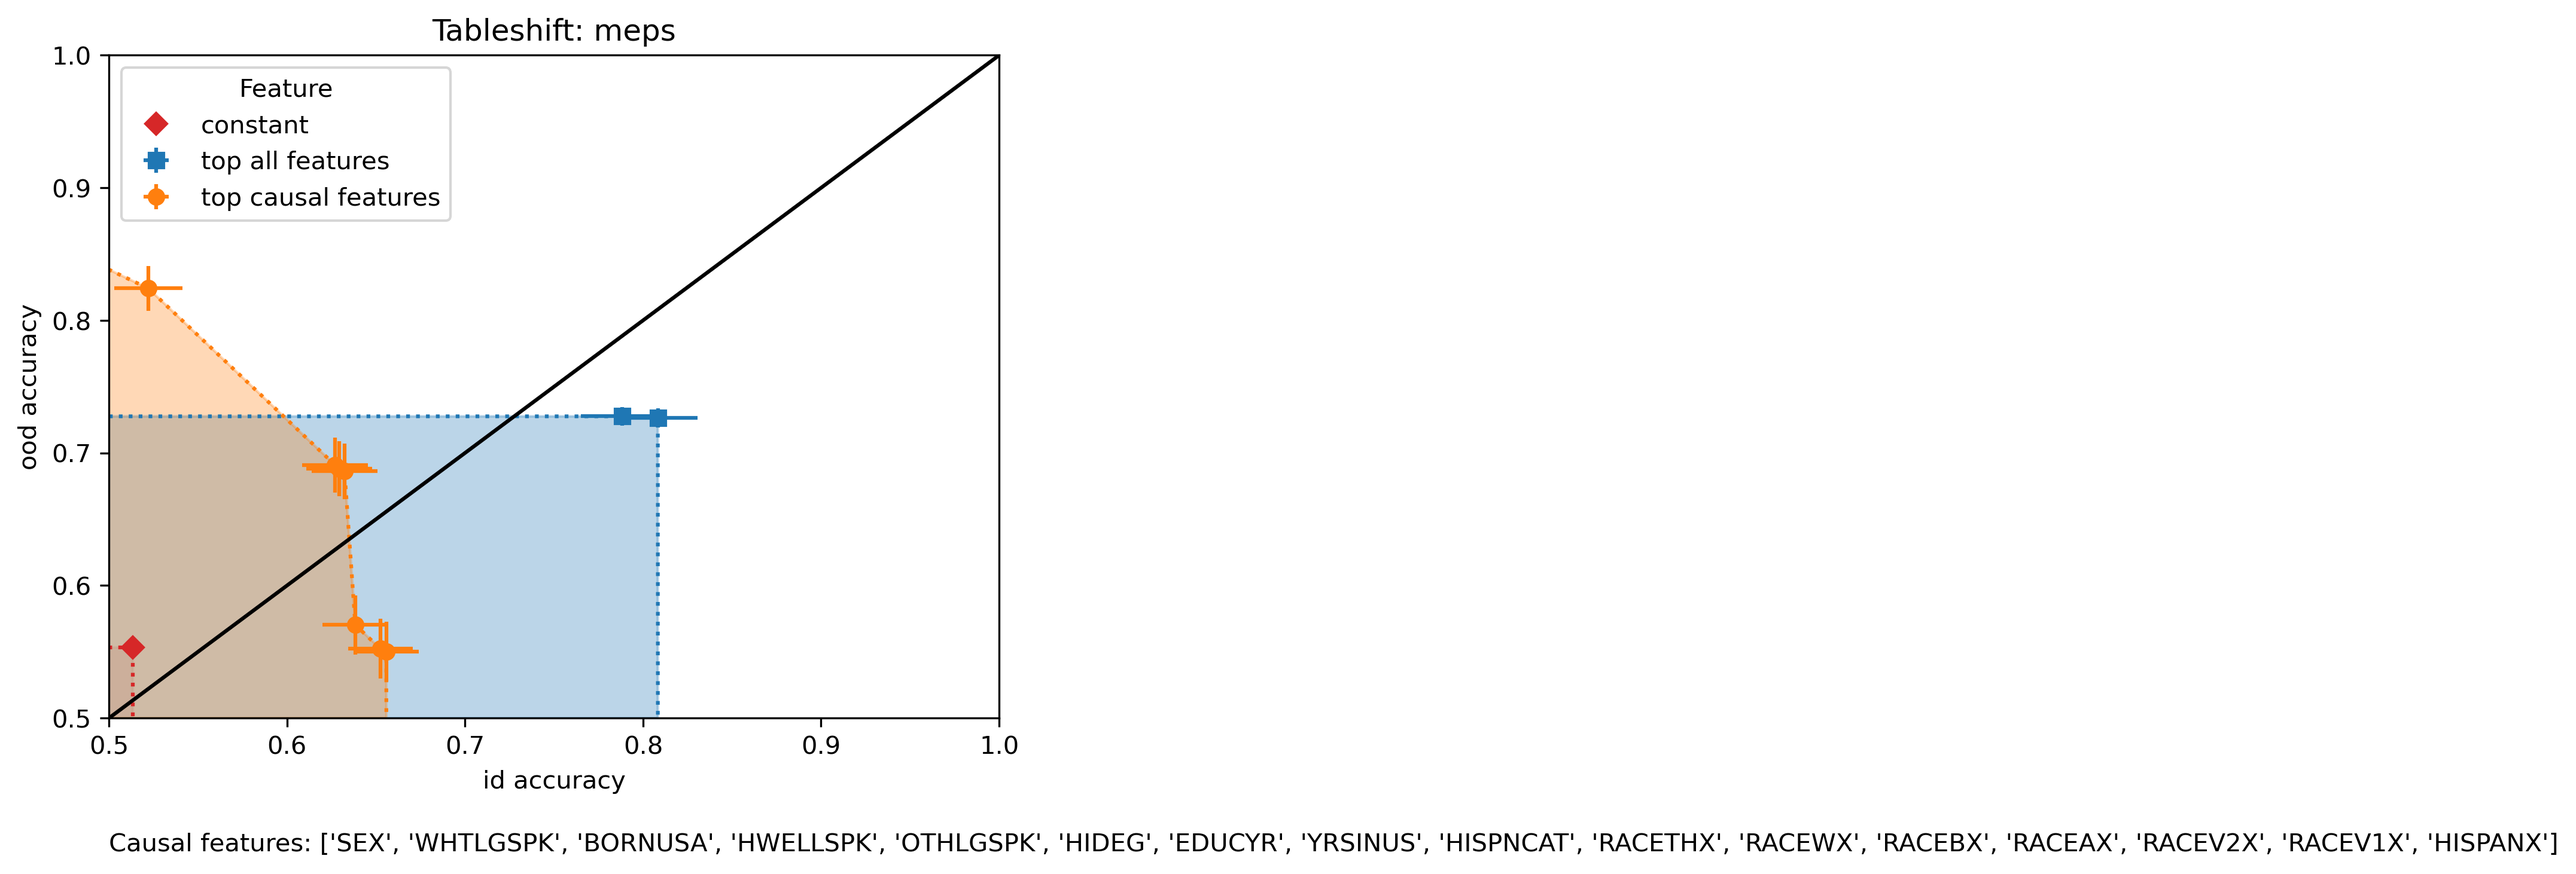
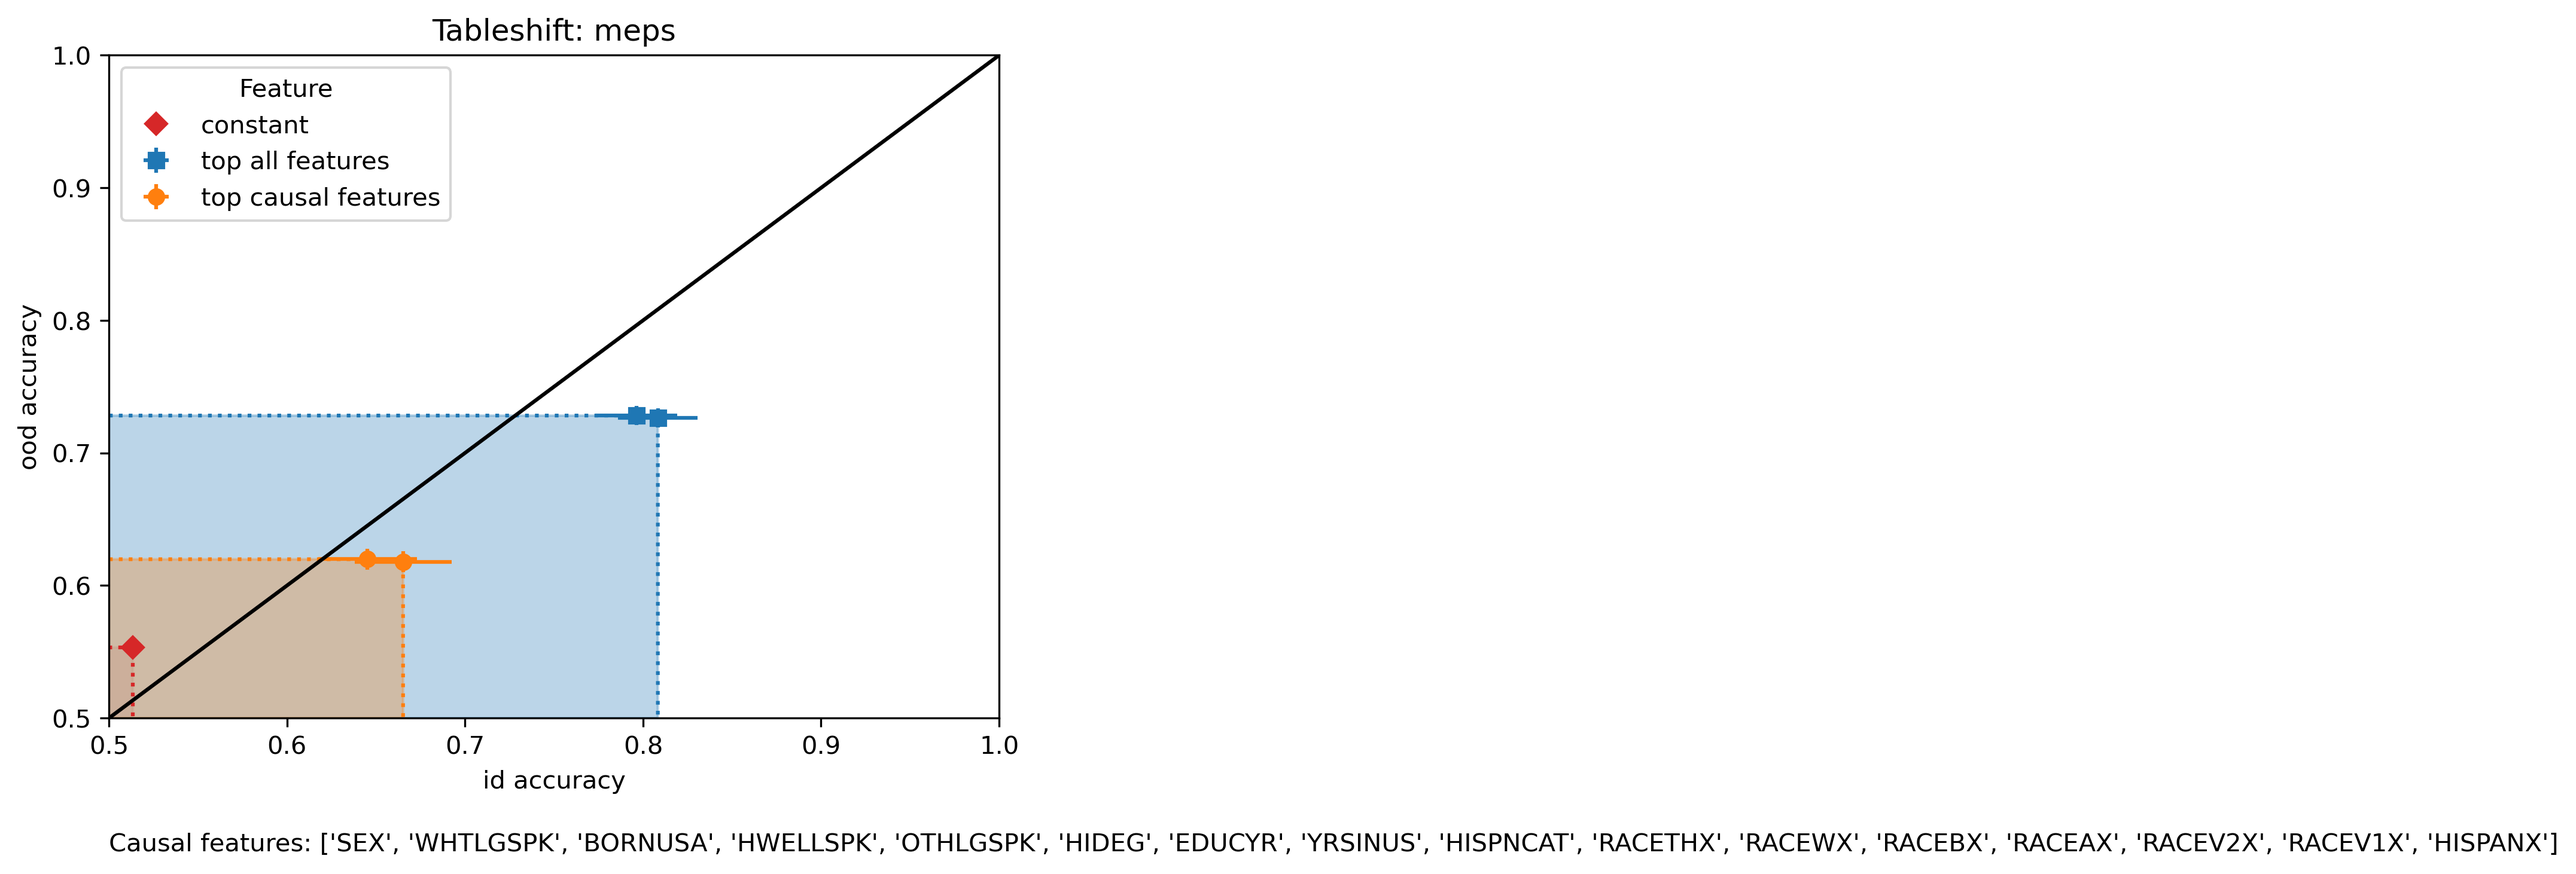
meps: rerun experiments

Changed region(s): [[0.0311, 0.3078, 0.1867, 0.8311], [0.2178, 0.4617, 0.249, 0.4925]]

diff --git a/tableshift/configs/benchmark_configs.py b/tableshift/configs/benchmark_configs.py
@@ -9,7 +9,8 @@ from tableshift.configs.experiment_defaults import DEFAULT_ID_TEST_SIZE, \
     DEFAULT_OOD_VAL_SIZE, DEFAULT_ID_VAL_SIZE, DEFAULT_RANDOM_STATE
 from tableshift.core import Grouper, PreprocessorConfig, DomainSplitter
 from tableshift.datasets import BRFSS_YEARS, ACS_YEARS, NHANES_YEARS
-from tableshift.datasets.mimic_extract import MIMIC_EXTRACT_STATIC_FEATURES
+from tableshift.datasets.mimic_extract import MIMIC_EXTRACT_STATIC_FEATURES, \
+    MIMIC_EXTRACT_LOS_3_FEATURES_CAUSAL, MIMIC_EXTRACT_MORT_HOSP_FEATURES_CAUSAL
 from tableshift.datasets.mimic_extract_feature_lists import \
     MIMIC_EXTRACT_SHARED_FEATURES
 
@@ -302,7 +303,8 @@ BENCHMARK_CONFIGS = {
 
         grouper=Grouper({"gender": ['M'], }, drop=False),
         preprocessor_config=PreprocessorConfig(
-            passthrough_columns=_MIMIC_EXTRACT_PASSTHROUGH_COLUMNS),
+            passthrough_columns=[f for f in _MIMIC_EXTRACT_PASSTHROUGH_COLUMNS
+                                 if f in MIMIC_EXTRACT_LOS_3_FEATURES_CAUSAL.names]),
         tabular_dataset_kwargs={"task": "los_3",
                                 "name": "mimic_extract_los_3_causal"}),
 
@@ -329,7 +331,8 @@ BENCHMARK_CONFIGS = {
                                                          "Medicaid"]),
         grouper=Grouper({"gender": ['M'], }, drop=False),
         preprocessor_config=PreprocessorConfig(
-            passthrough_columns=_MIMIC_EXTRACT_PASSTHROUGH_COLUMNS),
+            passthrough_columns=[f for f in _MIMIC_EXTRACT_PASSTHROUGH_COLUMNS
+                                 if f in MIMIC_EXTRACT_MORT_HOSP_FEATURES_CAUSAL.names]),
         tabular_dataset_kwargs={"task": "mort_hosp",
                                 "name": "mimic_extract_mort_hosp_causal"}),
 

diff --git a/experiments_vnastl/run_experiment.py b/experiments_vnastl/run_experiment.py
@@ -101,9 +101,9 @@ if __name__ == "__main__":
     # experiments=["college_scorecard","college_scorecard_causal"]
     # experiments = ["nhanes_lead", "nhanes_lead_causal"]
     # experiments = ["diabetes_readmission", "diabetes_readmission_causal"]
-    experiments = ["meps","meps_causal"]
+    # experiments = ["meps","meps_causal"]
     # experiments = ["mimic_extract_los_3","mimic_extract_los_3_causal"] 
-    # experiments = ["mimic_extract_mort_hosp","mimic_extract_mort_hosp_causal"]
+    experiments = ["mimic_extract_mort_hosp","mimic_extract_mort_hosp_causal"]
     # experiments = ["physionet","physionet_causal", "physionet_anticausal"]
     # experiments = ["sipp","sipp_causal"]
 
@@ -113,10 +113,10 @@ if __name__ == "__main__":
         dset = get_dataset(experiment, cache_dir)
         X, y, _, _ = dset.get_pandas("train")
         models = [
-            "ft_transformer",
-            "histgbm",
-            "mlp",
-            "saint",
+            # "ft_transformer",
+            # "histgbm",
+            # "mlp",
+            # "saint",
             "tabtransformer",
             "resnet",
             "xgb",
